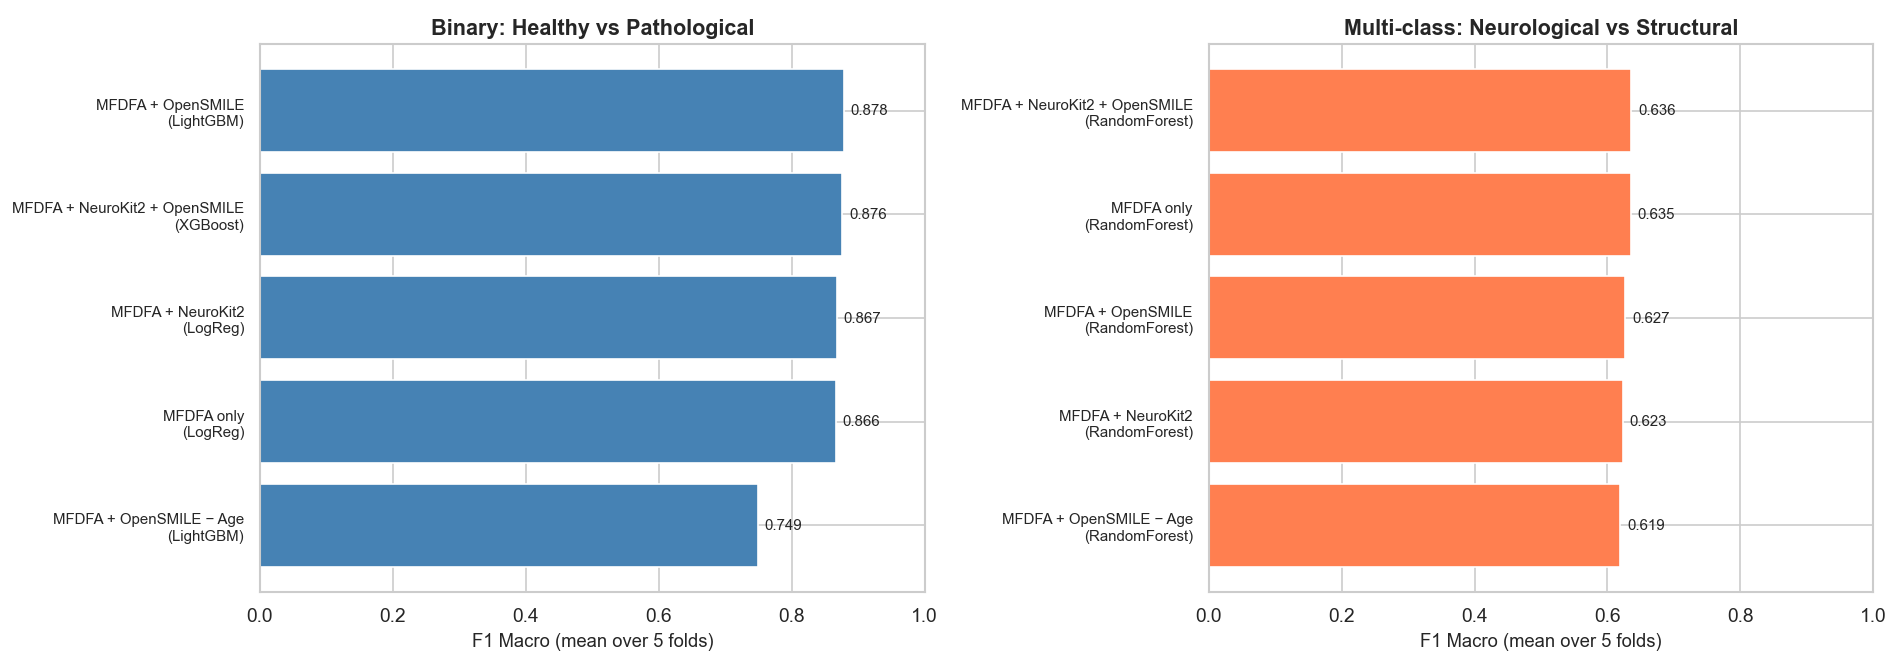
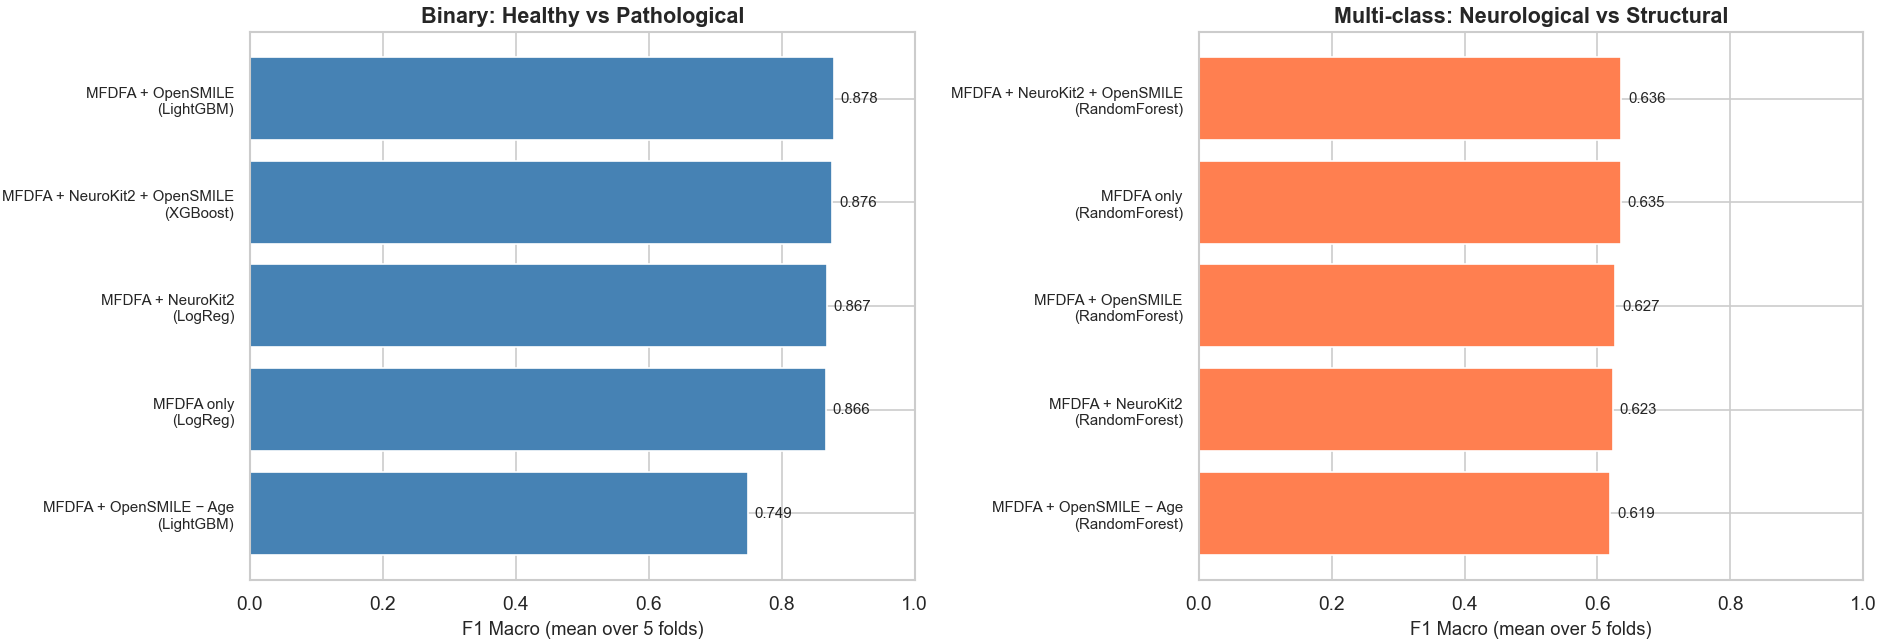
rewrote a few sections to be more natural; tweaked feature ablation image
- i almost see no change in the image. I just exported it from the notebook again.

diff --git a/research_paper/paper.tex b/research_paper/paper.tex
@@ -83,15 +83,15 @@
   \label{sec:introduction}
   %--------------------------------------------------------------
 
-  Voice disorders are prevalent among the population and can occur because of structural problems in the vocal folds, neurological problems that affect muscle coordination, and various functional and psychogenic factors. The proper diagnosis usually requires a laryngoscopy procedure together with a perceptual assessment of voice disorders conducted by physicians. Even though these techniques are quite accurate, they can be subjective, time-consuming, and necessitate expert knowledge in medicine.
+Voice disorders have high prevalence in the population because of the structural pathology of the vocal folds, neurogenic disorders in motor coordination, and multiple functional and psychogenic causes. Proper diagnosis of these disorders requires not only instrumental procedures like laryngoscopy but also perceptual evaluation of voice disorders by clinicians. Such methods are extremely precise; however, subjectivity and medical expertise might complicate the procedure.
 
-  Recently, there has been a considerable interest in the application of computational algorithms for voice disorder detection and screening as an alternative to traditional clinical diagnosis. Currently available computational techniques for identifying pathological speech mostly employ conventional acoustic features such as MFCCs, fundamental frequency ($F_0$), and other spectral-based descriptors. Such techniques have proven to be rather successful for capturing the spectral properties of speech but fail to adequately describe the temporal and nonlinear dynamics associated with pathological voices.
+Recently, much attention is paid to computerized procedures used for detecting and diagnosing voice disorders in order to eliminate subjectivity. Computer algorithms for recognizing pathological voices mostly use standard spectrographic parameters of the signal such as MFCCs, F0, and others. Even though these methods successfully describe spectral properties of speech, they are inefficient for characterization of temporal and nonlinear dynamics typical for pathological voices.
 
-  Speech production can be considered as a nonlinear phenomenon governed by a wide range of processes involving airflow, vocal fold vibration, and vocal tract movements. In some cases, these processes may become irregular leading to changes in the dynamics. For a comprehensive analysis of such dynamics, the fractal and multifractal theory can be used as they offer a possibility of studying complex signals in terms of their scaling characteristics.
+It is evident that speech generation can be considered as a nonlinear process that occurs due to many phenomena that affect it, such as airstream initiation, vocal fold vibrations, and articulation. Sometimes these dynamics turn out to be unstable, which leads to changes in these dynamics. Therefore, fractal and multifractal theory should be used in the analysis of pathological voices to estimate their dynamics.
 
-  In this paper, we propose the use of \textbf{multifractal detrended fluctuation analysis} technique for assessing speech recordings in the presence of pathologies. Multifractal analysis of time series represents a mathematical methodology aimed at quantifying heterogeneity of dynamics using the concept of scaling behaviour at multiple time scales. Unlike monofractals which quantify signals by means of one scaling exponent, multifractality offers more flexible representation of signal complexity by providing a multifractal spectrum which includes local scaling exponents for various $q$-orders.
+For the purpose of this work, \textbf{multifractal detrended fluctuation analysis} will be used in the analysis of speech recordings affected by certain diseases. The theory of multifractality of time series is a set of methods which describe dynamics of the studied object in terms of its scaling properties over various time scales. Monofractals describe an object with one scaling exponent. Multifractal description allows for describing a more complex signal with the help of multifractal spectrum composed of different local scaling exponents depending on q-order of the analysis.
 
-  The main purpose of the study is to test whether multifractal descriptors obtained via MFDFA can help detect pathological speech, and whether such descriptors can complement conventional acoustic features.
+The main focus of the research is whether multifractal characteristics obtained through MFDFA could be helpful in detecting speech pathology, and if they could serve as additional indicators of pathology along with standard acoustic parameters.
 
   Three aspects distinguish this work from prior fractal-based voice pathology studies. First, we employ the full multifractal spectrum from MFDFA rather than a scalar fractal dimension estimate, providing richer scaling information across multiple moment orders. Second, we address both \textbf{binary} (healthy vs.\ pathological) and \textbf{multi-class} (neurological vs.\ structural) classification within a single unified pipeline, whereas most prior studies focus exclusively on binary detection. Third, we enforce strict speaker-independent cross-validation using \texttt{StratifiedGroupKFold}, ensuring recordings from the same speaker never span training and test splits — a safeguard that prevents the data leakage shown to produce overly optimistic performance in many prior works \cite{saenzlechon2006}. A feature ablation study further quantifies MFDFA's standalone and combined contribution to each classification task.
 
@@ -227,9 +227,9 @@
   \subsection{Disease Group Classification}
   %--------------------------------------------------------------
 
-  Beyond simple pathology detection, a more challenging task involves distinguishing between different types of voice disorders based on their clinical origin. In this work, individual pathologies are grouped into two clinically meaningful categories: neurological disorders and structural disorders.
+While detecting pathology is one thing, another goal that poses greater challenges involves the classification of various types of voice disorders depending on their clinical causes. In this paper, pathologies have been classified into two groups from a clinical perspective: neurologic diseases and structural diseases.
 
-  Neurological disorders typically arise from impairments in neural control of the vocal folds, whereas structural disorders involve physical abnormalities in the vocal fold tissue. Distinguishing between these categories from speech signals alone is therefore a more difficult problem.
+Neurological diseases are caused by abnormalities in the neural regulation of the vocal folds, while structural diseases refer to abnormalities of the tissues that make up the vocal folds. Therefore, classifying these two groups solely through speech signals is a difficult task.
 
   Table~\ref{tab:multiclass_results} summarises the performance of the evaluated models for disease-group classification.
 
@@ -282,13 +282,13 @@
   \end{tabular}
   \end{table}
 
-  The results reveal several interesting observations. First, multifractal features alone achieve an F1 score of 0.866, demonstrating that multifractal characteristics of the speech signal carry substantial information about vocal health. When combined with OpenSMILE descriptors, performance improves slightly, indicating that these features provide complementary information.
+The results reveal several key insights. First, the multifractal features alone can produce an F1 score of 0.866, meaning that the multifractal properties of the speech signal contain enough information about the state of the vocal tract. Using the OpenSMILE features along with the multifractal ones shows some minor improvements, which means that both types of features complement each other.
 
-  In contrast, adding NeuroKit2 features yields only marginal improvement, suggesting that most of the useful complexity-related information is already captured by the multifractal descriptors.
+At the same time, using the NeuroKit2 features leads to almost no improvement, meaning that the majority of information on complexity can be found in the multifractal features.
 
-  An additional observation concerns the role of age metadata. When age is removed from the MFDFA+OpenSMILE configuration, macro F1 drops from 0.878 to 0.749, indicating that age is a strongly correlated variable in this dataset and should be interpreted carefully when assessing pathology-detection performance.
+Another important insight relates to the effect of the age metadata feature. Removing age from the model based on MFDFA+OpenSMILE features reduces the macro F1 from 0.878 to 0.749, which means that age is a highly correlated variable in this dataset and must be considered carefully.
 
-  The comparative results across configurations are illustrated in Figure~\ref{fig:ablation_results}.
+  The comparative results in all configurations are illustrated in Figure~\ref{fig:ablation_results}.
 
   \begin{figure*}[htbp]
   \centering
